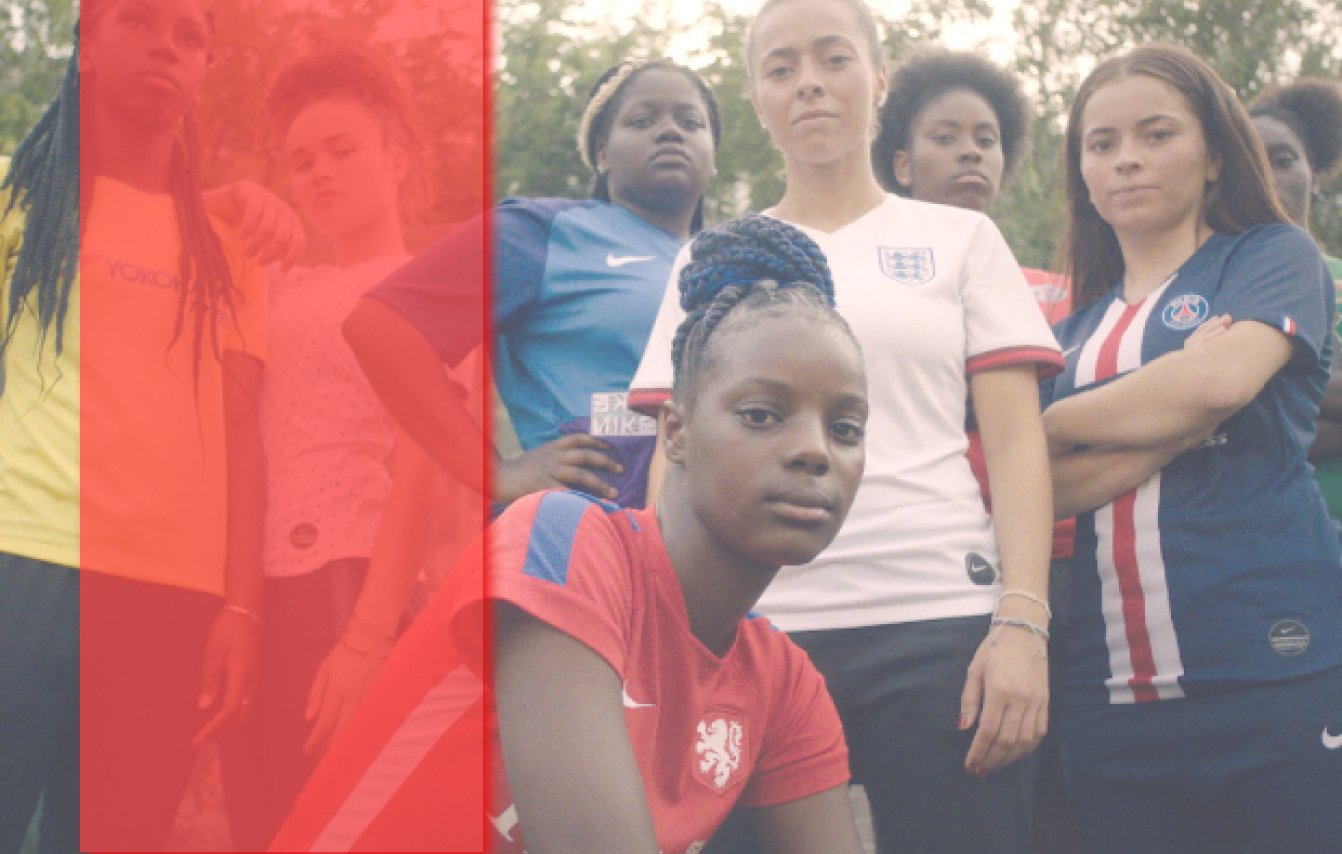
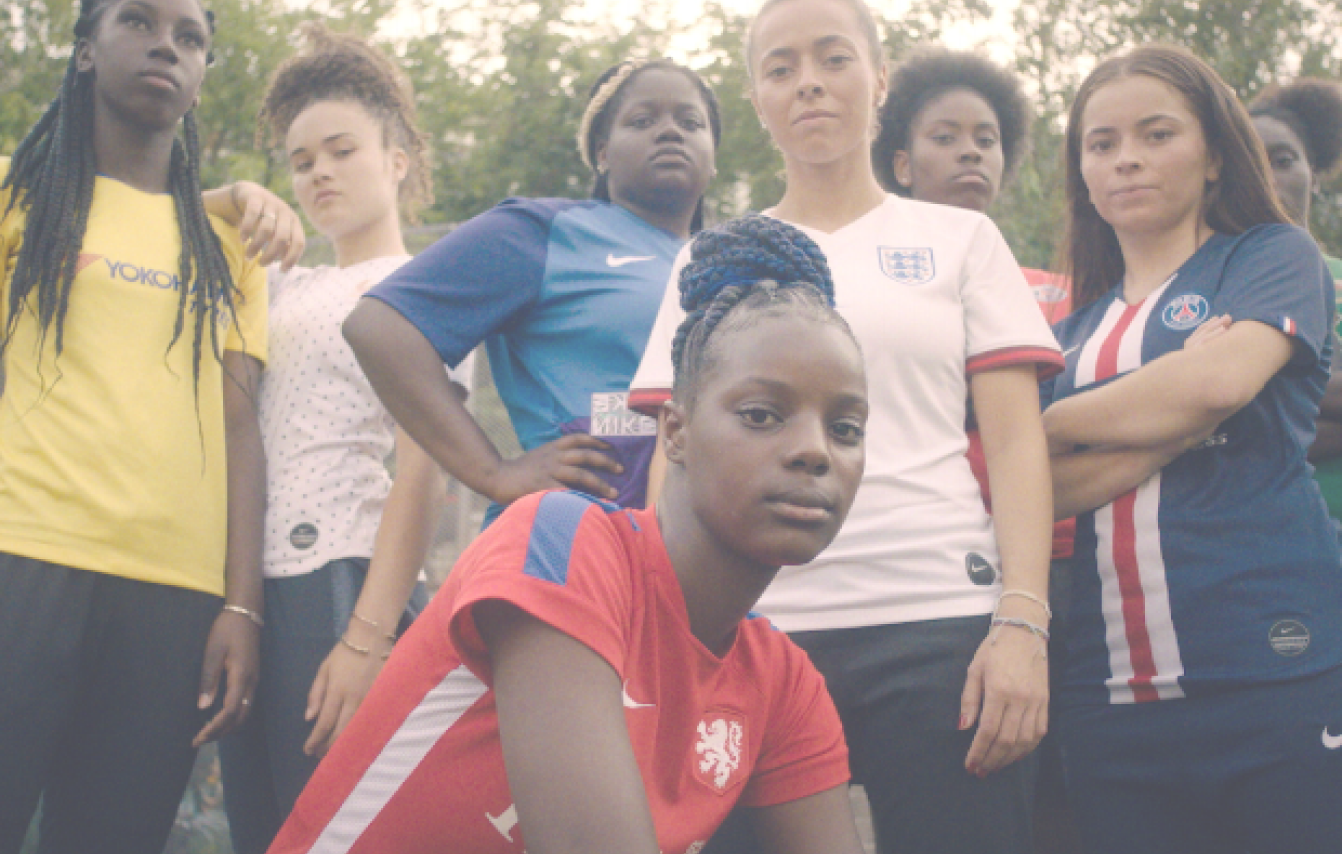
style about page

diff --git a/app/assets/stylesheets/application.scss b/app/assets/stylesheets/application.scss
@@ -106,7 +106,7 @@ body{
 	height: 100%;
 }
 .games-container{
-	height:100%;
+	height:90%;
 	overflow: scroll;
 }
 .game-container{
@@ -180,6 +180,27 @@ body{
 	justify-items: center;
 	align-items: center;
 }
-
+.about-container{
+	@include page-image('about-page.png');
+	height: 100%;
+}
+.about-banner{
+	@include banner ($red, #E81718);
+	margin-left: 25%;
+}
+.about-form{
+	@include flex;
+	@include container;
+	h1{
+		font-family: "Bungee Shade", sans-serif;
+		color: $black;
+		font-size: 3rem;
+		margin-bottom: 5%;
+	}
+	width: 60%;
+	padding:4%;
+	margin:auto;
+	margin-top: 2%;
+}
 
 //navbar

diff --git a/app/assets/stylesheets/navbar.scss b/app/assets/stylesheets/navbar.scss
@@ -3,12 +3,11 @@
   background-color: $black;
   overflow: hidden;
 	width:100%;
-	text-align: end;
 }
 
 /* Style the links inside the navigation bar */
 .topnav a {
-  float: left;
+  float: right;
   display: block;
   color: $white;
   text-align: center;
